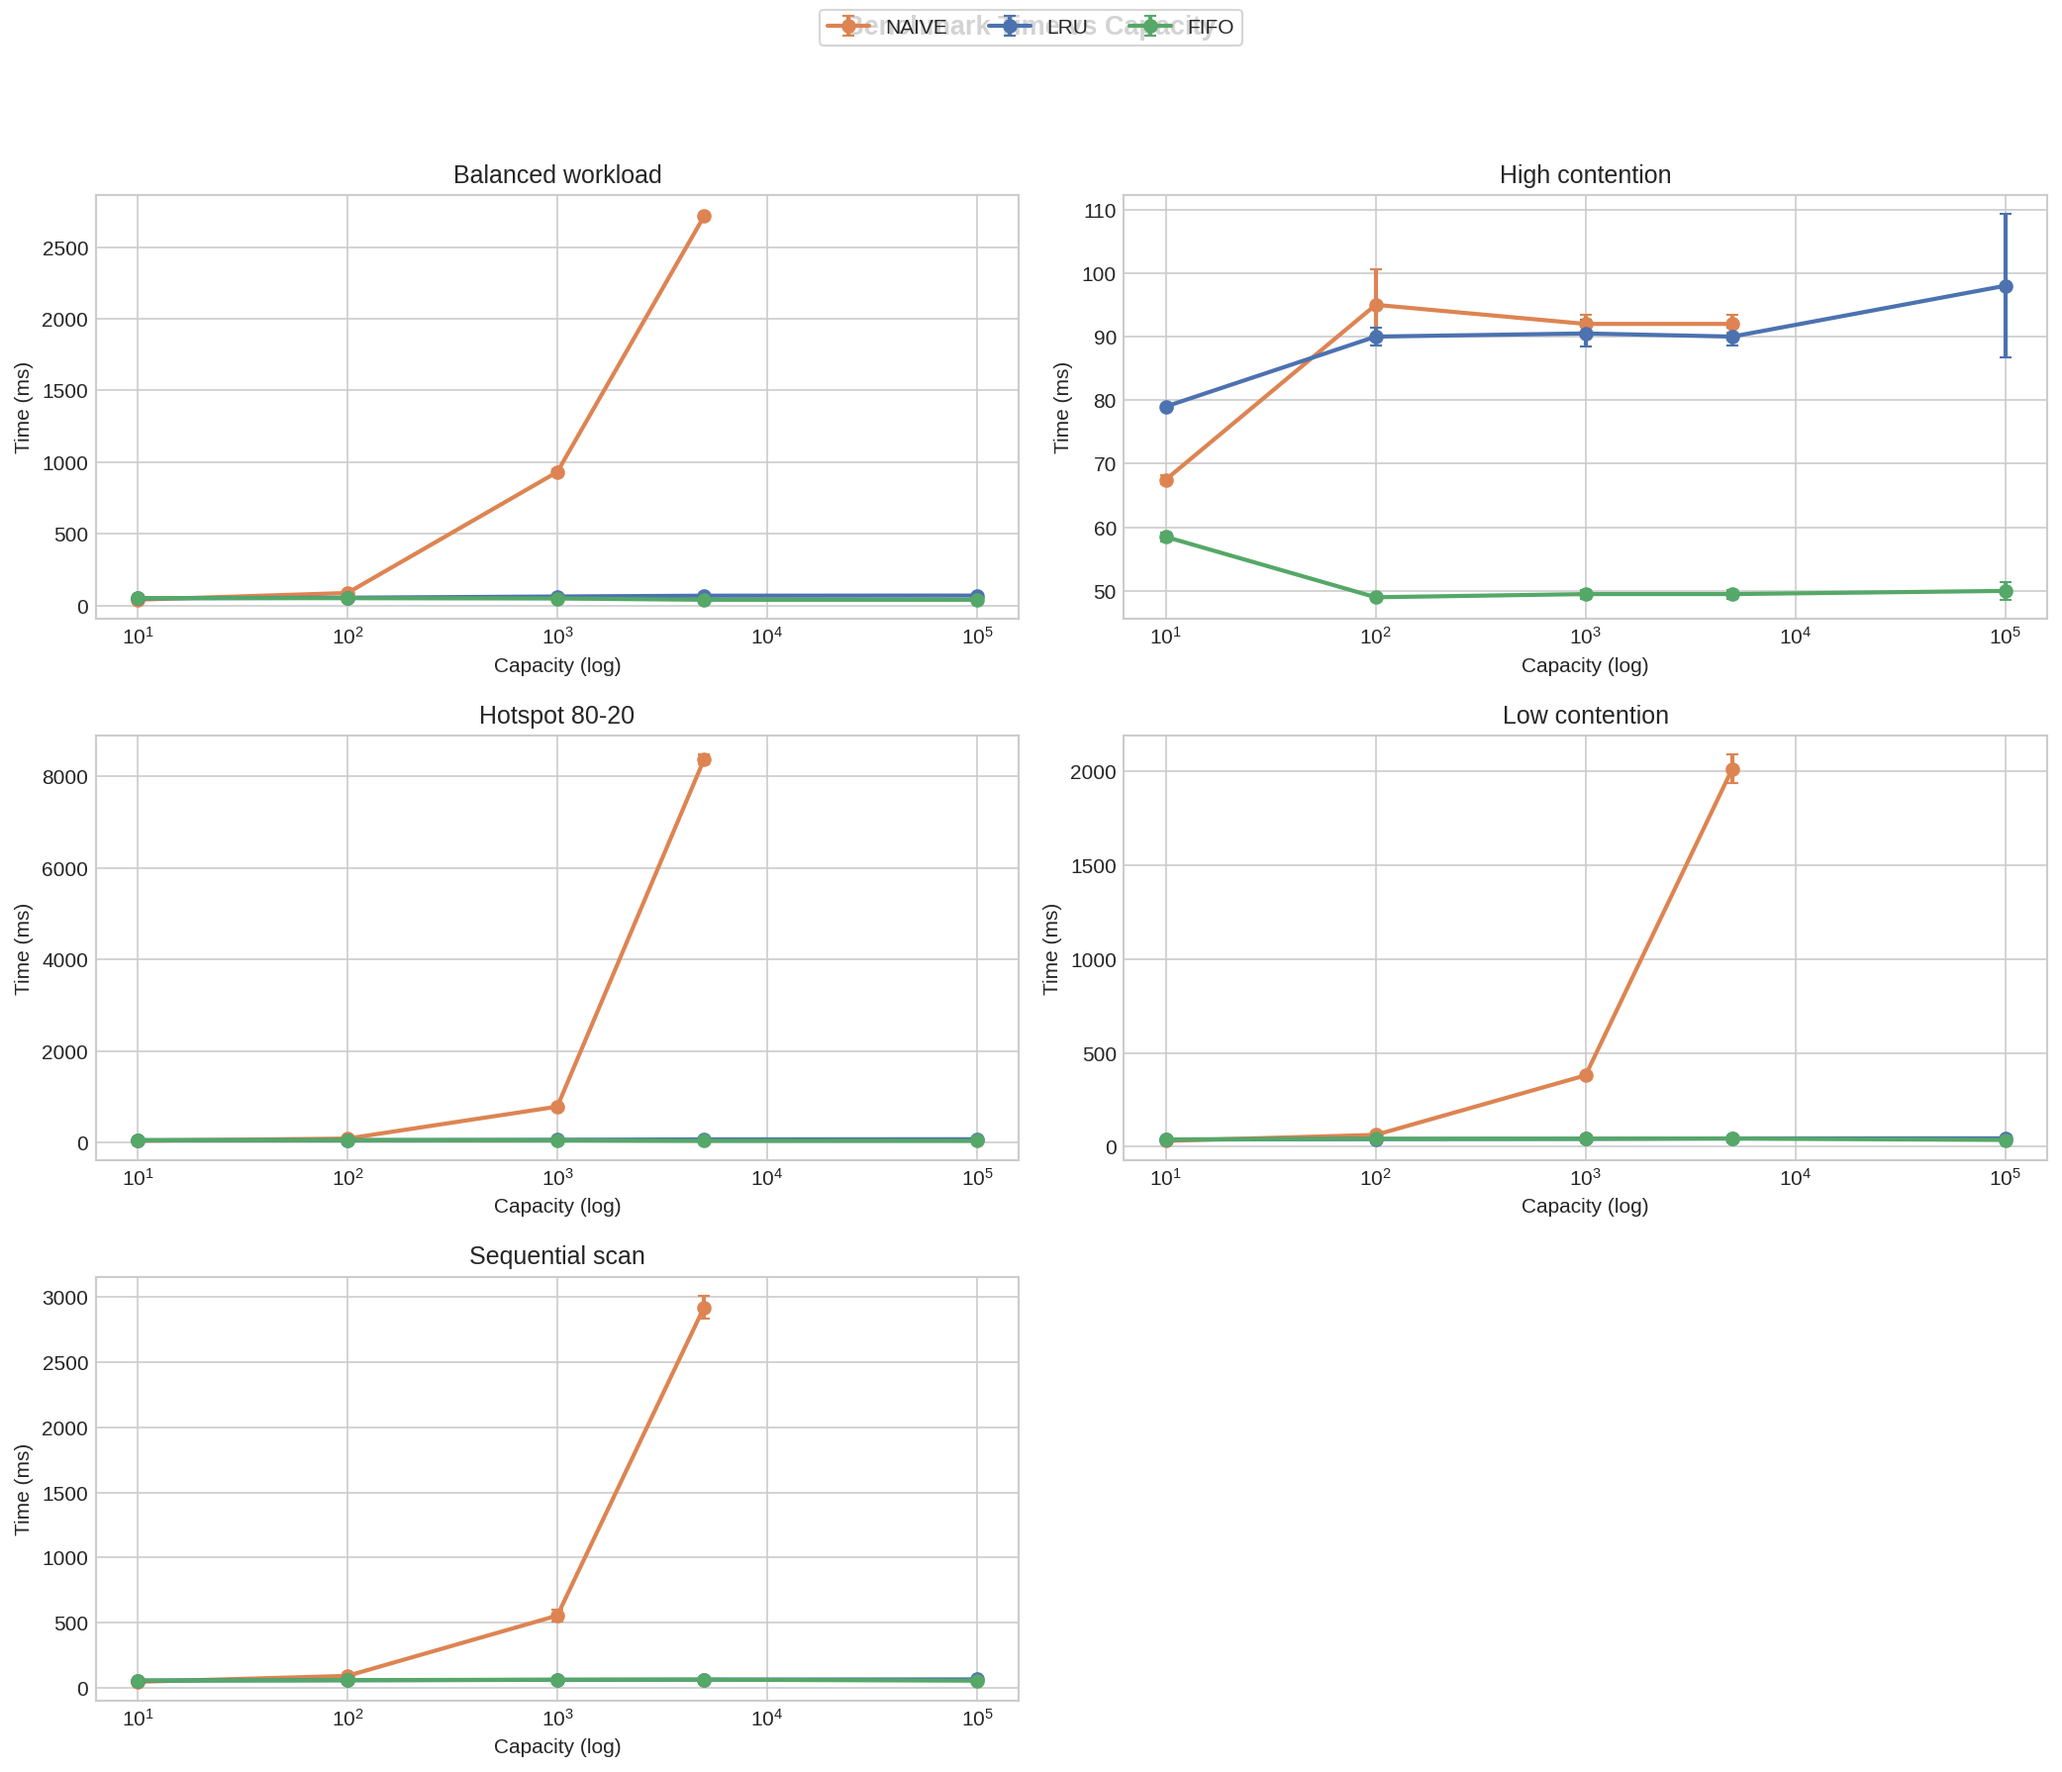
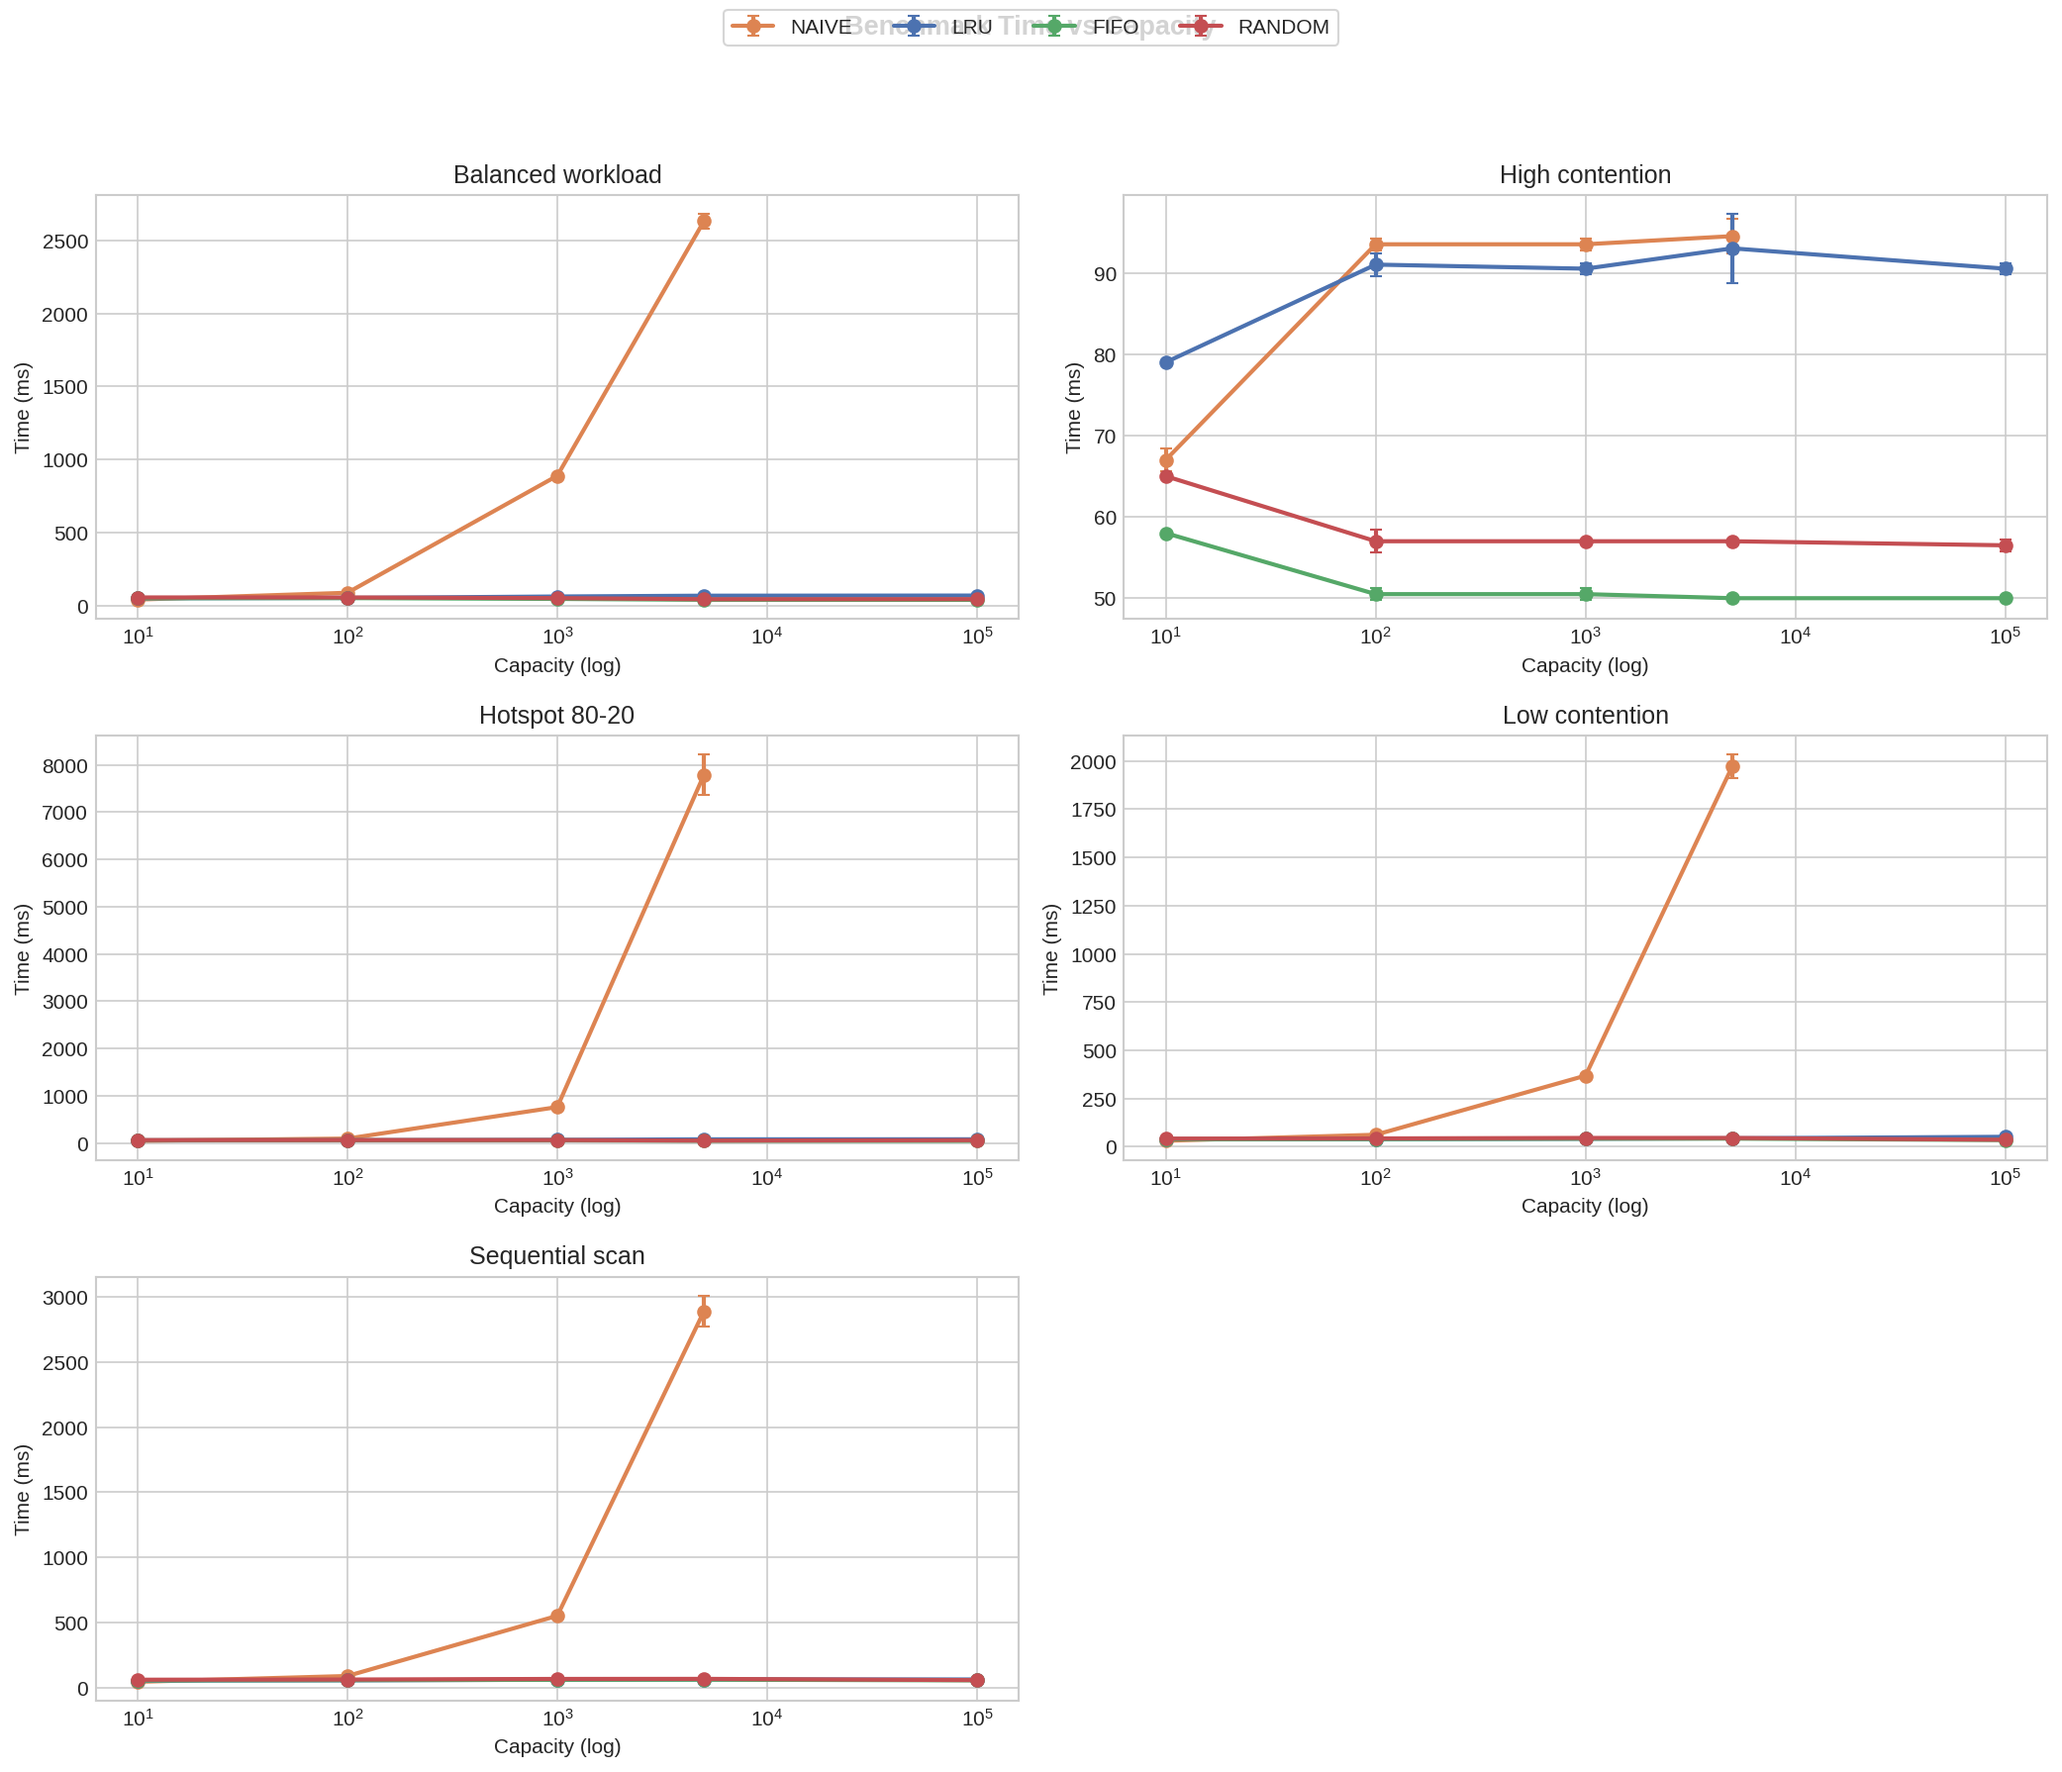
add random replacement strategy

diff --git a/replacement-strategies/src/random-replacer.cpp b/replacement-strategies/src/random-replacer.cpp
@@ -1,0 +1,49 @@
+#include "../include/random-replacer.h"
+#include <cstdlib>
+
+RandomReplacer::RandomReplacer() {
+    std::srand(42); // fixed seed for reproducibility in benchmarks
+}
+
+void RandomReplacer::pin(Page *page) {
+    auto it = index_map.find(page->getKey());
+    if (it == index_map.end())
+        return;
+
+    // swap with last element then pop — O(1) removal
+    int idx = it->second;
+    Page *last = unpinned_list.back();
+
+    unpinned_list[idx] = last;
+    index_map[last->getKey()] = idx;
+
+    unpinned_list.pop_back();
+    index_map.erase(page->getKey());
+}
+
+void RandomReplacer::unpin(Page *page) {
+    if (index_map.count(page->getKey()))
+        return;
+
+    index_map[page->getKey()] = unpinned_list.size();
+    unpinned_list.push_back(page);
+}
+
+Page *RandomReplacer::evict() {
+    if (unpinned_list.empty())
+        return nullptr;
+
+    // pick a random index
+    int idx = std::rand() % unpinned_list.size();
+    Page *victim = unpinned_list[idx];
+
+    // swap with last then pop — O(1)
+    Page *last = unpinned_list.back();
+    unpinned_list[idx] = last;
+    index_map[last->getKey()] = idx;
+
+    unpinned_list.pop_back();
+    index_map.erase(victim->getKey());
+
+    return victim;
+}

diff --git a/replacement-strategies/benchmark/benchmark.cpp b/replacement-strategies/benchmark/benchmark.cpp
@@ -2,6 +2,7 @@
 #include "../include/fifo-replacer.h"
 #include "../include/lru-cache-naive.h"
 #include "../include/lru-replacer.h"
+#include "../include/random-replacer.h"
 
 #include <chrono>
 #include <fstream>
@@ -200,6 +201,7 @@ int main() {
         {"NAIVE", true, []() { return std::make_unique<LRUReplacerNaive>(); }},
         {"LRU", true, []() { return std::make_unique<LRUReplacer>(); }},
         {"FIFO", false, []() { return std::make_unique<FIFOReplacer>(); }},
+        {"RANDOM", false, []() { return std::make_unique<RandomReplacer>(); }},
     };
 
     for (const auto &workload : workloads) {

diff --git a/replacement-strategies/include/random-replacer.h b/replacement-strategies/include/random-replacer.h
@@ -1,0 +1,17 @@
+#pragma once
+#include "replacer.h"
+#include <unordered_map>
+#include <vector>
+
+class RandomReplacer : public Replacer {
+  public:
+    RandomReplacer();
+    void pin(Page *page) override;
+    void unpin(Page *page) override;
+    Page *evict() override;
+
+  private:
+    // store all unpinned pages as a flat list
+    std::vector<Page *> unpinned_list;
+    std::unordered_map<int, int> index_map; // key -> index in unpinned_list
+};

diff --git a/replacement-strategies/benchmark/plot.py b/replacement-strategies/benchmark/plot.py
@@ -8,11 +8,12 @@ import pandas as pd
 
 plt.style.use("seaborn-v0_8-whitegrid")
 
-STRATEGY_ORDER = ["NAIVE", "LRU", "FIFO"]
+STRATEGY_ORDER = ["NAIVE", "LRU", "FIFO", "RANDOM"]
 COLORS = {
     "NAIVE": "#DD8452",
     "LRU": "#4C72B0",
     "FIFO": "#55A868",
+    "RANDOM": "#C44E52",
 }
 
 
